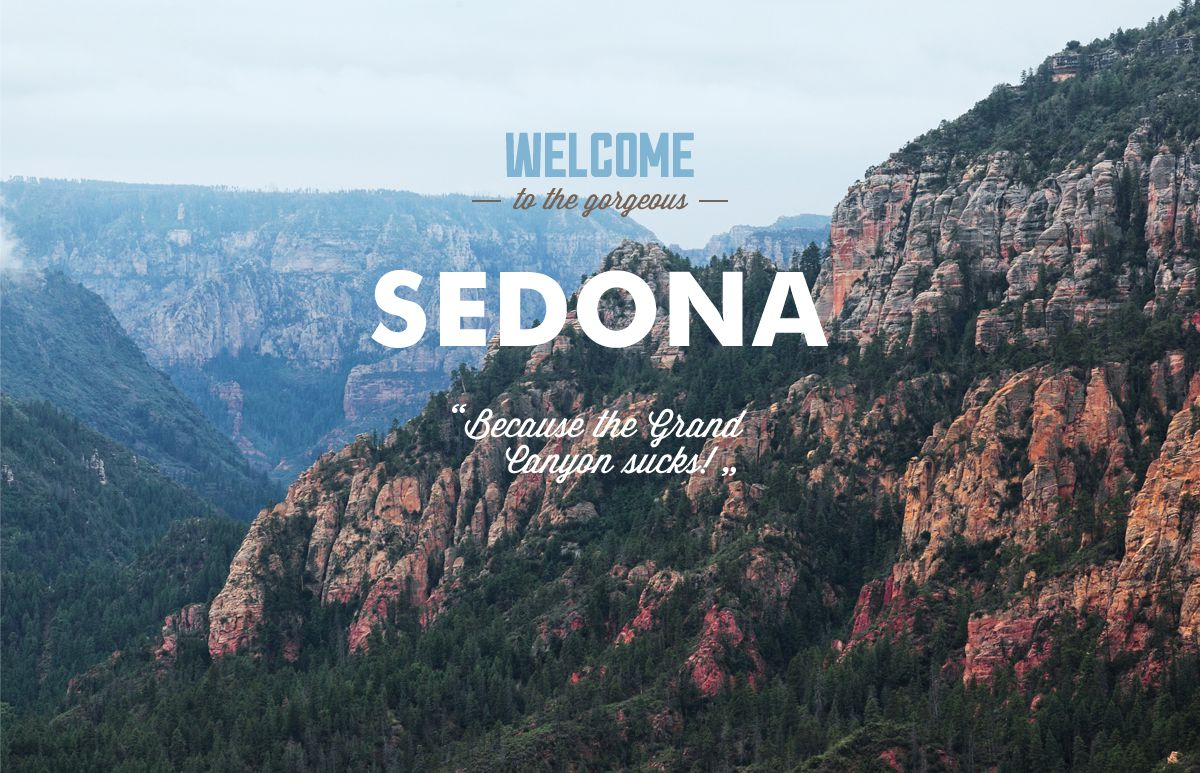
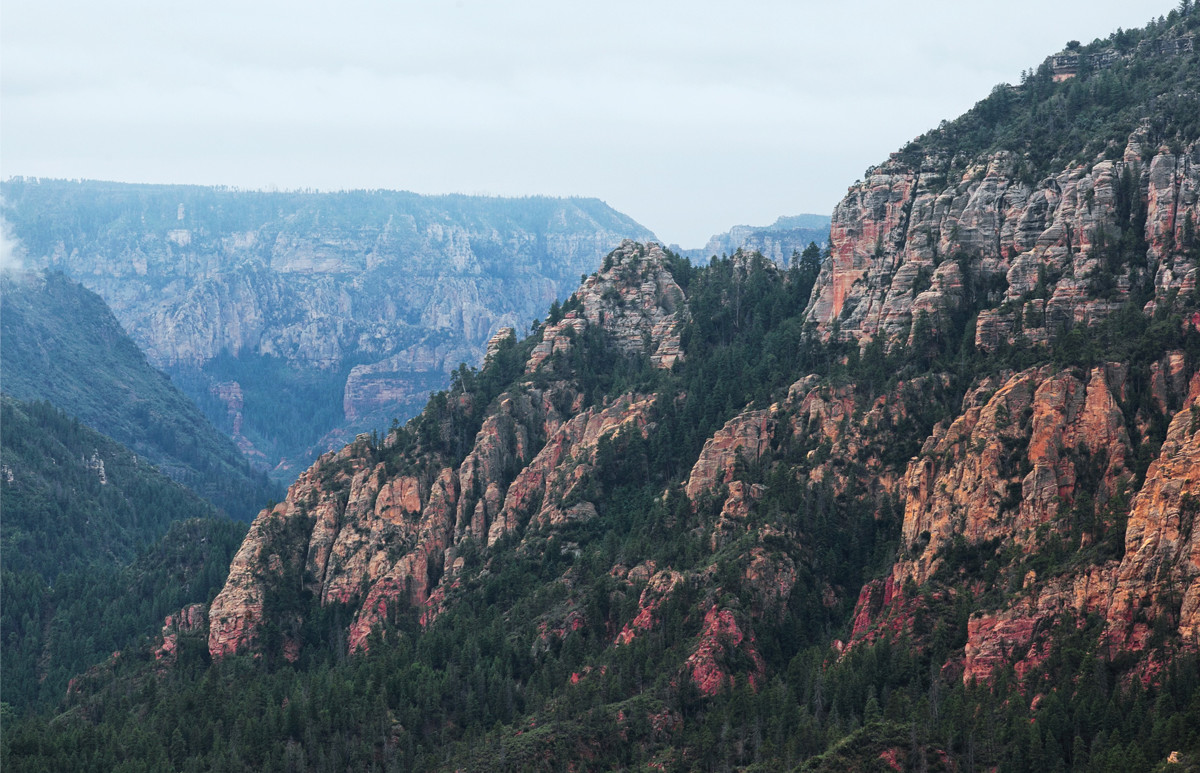
Final changes. Education is over

diff --git a/css/style.min.css b/css/style.min.css
@@ -1,1 +1,1 @@
-h1,h2{font-size:21px}.form-input,.item-info{overflow:hidden}@font-face{font-family:symbols-sedona;src:url(../font/symbols-sedona.eot?60737633);src:url(../font/symbols-sedona.eot?60737633#iefix) format('embedded-opentype'),url(../font/symbols-sedona.woff?60737633) format('woff'),url(../font/symbols-sedona.ttf?60737633) format('truetype'),url(../font/symbols-sedona.svg?60737633#symbols-sedona) format('svg');font-weight:400;font-style:normal}[class*=" icon-"]:before,[class^=icon-]:before{font-family:symbols-sedona;font-style:normal;font-weight:400;speak:none;display:inline-block;text-decoration:inherit;width:1em;margin-right:.2em;text-align:center;font-variant:normal;text-transform:none;line-height:1em;margin-left:.2em}.copyright-logo,.footer-hashtag a,.item-btn,.main-navigation a,.social-btn,.sorting-arrow,.sorting-btn,a.search-form-call{text-decoration:none}.form-call input,body{text-transform:uppercase;font-family:"PT Sans",Arial,sans-serif}.icon-facebook:before{content:'\66'}.icon-twitter:before{content:'\74'}.icon-up-dir:before{content:'\25b2'}.icon-down-dir:before{content:'\25bc'}.icon-star:before{content:'\2605'}.icon-check-off:before{content:'\2610'}.icon-check-on:before{content:'\2611'}.icon-calendar:before{content:'\e800'}.icon-plus:before{content:'\e801'}.icon-minus:before{content:'\e802'}.icon-youtube:before{content:'\f39e'}body{font-size:14px;line-height:21px;color:#000;background-color:#f2f2f2}h1{line-height:24px;font-weight:700}h2{line-height:26px;font-weight:700}.clearfix::after,.clearfix::before{content:'';display:table;clear:both}.pull-right{float:right}.pull-left{float:left}.wrapper{position:relative;min-width:768px;max-width:1200px;margin:0 auto;background-color:#fff;box-shadow:0 5px 15px rgba(0,1,1,.2)}.main-header{padding:20px 6% 15px;position:relative}.main-header ul{padding:0;margin:0;list-style:none}.main-nav-li{width:22.7%;line-height:18px}.main-nav-li.pull-left{text-align:left}.main-nav-li.pull-right{text-align:right}.btn,.features-item,.intro,.search-form{text-align:center}.main-navigation a{color:#000;font-weight:700}.main-navigation a:hover{color:#81b3d2}.main-navigation a:active{color:#b2b2b2}.main-navigation a.active{color:#766357}.main-navigation a.active:hover{color:#604e43}.main-navigation a.active:active{color:#d6d0cc}.top-logo{position:absolute;display:block;top:0;left:50%;margin-left:-69px}.top-logo img{height:70px}.start-img{height:512px;background:url(../img/start-img-bottom-shape.png) 100% bottom no-repeat,url(../img/start-img.jpg) center -56px no-repeat}.intro{padding:60px 0 55px}.intro-title{width:440px;margin:0 auto 30px}.intro p{margin:0 26%}.landscape{min-height:256px;position:relative;color:#fff;background-color:#81b3d2}.landscape-picture{position:absolute;top:0;bottom:0;width:67%;background-repeat:no-repeat;background-size:cover}.landscape-1 .landscape-picture{right:0;background-image:url(../img/landscape1-800x256.jpg)}.landscape-2 .landscape-picture{left:0;background-image:url(../img/landscape2-800x256.jpg)}.landscape-description{width:21%;text-align:center;padding:55px 6% 15px;margin:0}.landscape-title{width:153px;margin:0 auto}.centerred{margin:20px auto}.landscape p{margin:0 auto}.features-item{width:23.3333%;padding:60px 5% 80px}.features-item h2{width:140px;margin:0 auto 20px}.features-item p{margin-bottom:0}.features-1 img{margin-bottom:20px}.features-2{background-color:#eee}.features-2 .features-item{padding-top:40px;padding-bottom:63px}.search-form{padding-top:45px;line-height:24px}.search-title{font-size:30px;line-height:36px;margin-top:0;margin-bottom:25px}.search-form-title{margin-bottom:50px}.search-form-block{background-color:#fff}.btn{color:#fff;display:block}a.search-form-call{height:60px;width:568px;margin:0 auto;background-color:#766357;font-size:21px;line-height:26px;font-weight:700;padding-top:25px}.search-form-body{position:absolute;display:none;left:50%;margin-left:-284px;width:458px;padding:55px;text-align:left;font-weight:700;background-color:#fff;box-shadow:0 7px 15px rgba(0,1,1,.15)}@keyframes fade{0%{opacity:0}70%{opacity:.5}90%{opacity:.7}100%{opacity:1}}.search-form-body.show{display:block;animation:fade .5s}.form-row{margin-bottom:30px}.form-row-half:after,.form-row:after{content:'';display:table;clear:both}.form-description{float:left;width:98px;margin-top:7px;padding-right:15px}.form-input{width:345px;position:relative}.form-input input{box-sizing:border-box;height:38px;width:100%;padding-left:10px;padding-right:35px;border:2px solid #f2f2f2;background-color:#f2f2f2;outline:0;font-weight:700;text-transform:uppercase}.form-row-half{width:50%;float:left}.form-row-half .form-input{width:113px}.form-description-short{width:48px;padding-left:50px}.form-input input:hover{border-color:#ebebeb;background-color:#ebebeb}.form-input input:focus{border-color:#e5e5e5;background-color:#fff}.form-row-half input{width:114px;padding:0 25px;text-align:center}.form-icon{position:absolute;right:9px;top:6px;color:#c2c2c2;cursor:pointer}.form-icon:hover{color:#000}.form-icon:active{color:#81b3d2}.icon-calendar{font-size:21px}.icon-minus{right:auto;left:9px}.form-call{margin-top:55px}.form-call input{width:458px;padding:16px 15px;border:1px solid #fff;font-weight:700;font-size:21px;line-height:24px;outline:0}.blue-btn{color:#fff;background:#81b3d2}.blue-btn:hover{background:#669ec0}.blue-btn:active{color:#88b6d1;background:#5496bd}.map{background:url(../img/map.jpg) center bottom #f2f1ef}.map iframe{height:593px;width:100%}[class*="-footer"]{padding-top:35px;padding-bottom:36px}.main-footer{position:absolute;right:0;left:0;bottom:0;z-index:1;background-color:rgba(255,255,255,.9)}.hotels-footer section,.main-footer section{width:33.33333%;text-align:center}.footer-hashtag{margin:15px 0 0}.footer-hashtag h2{margin:0}.footer-hashtag a{color:#000}.footer-socials{font-size:0}.social-btn{margin:0 3px;display:inline-block;vertical-align:top;width:46px;height:34px;padding-top:14px;font-size:19px;line-height:20px}.footer-copyright{margin-top:5px}.copyright-logo,.copyright-text{display:inline-block;vertical-align:middle;margin-right:5px}.copyright-logo{width:113px;height:39px;font-size:0;background:url(../img/logo-sprite.png) -5px -5px no-repeat}.copyright-logo:hover{background-position:-251px -5px}.copyright-logo:active{background-position:-128px -5px}.hotels-filter{padding:30px 6%;background:url(../img/start-img-blurred.jpg) center center #618ab2;min-height:156px;color:#fff}.hotels-filter h2{margin:0 auto 20px 0}.filter-column-small{width:16%;margin-right:8%}.filter-title{font-size:16px;line-height:21px;font-weight:700}.filter-column-small input[type=checkbox]{display:none}.filter-label{display:block;position:relative;margin-bottom:25px;padding-left:40px;cursor:pointer}.filter-column-small .filter-label:last-child{margin-bottom:0}input[type=checkbox]+.filter-text::before{content:'\2610';font-family:symbols-sedona;display:block;position:absolute;top:0;left:0;cursor:pointer;font-size:26px;line-height:20px;color:#fff}input[type=checkbox]:checked+.filter-text::before{content:'\2611'}.filter-column-right{width:31%;min-width:224px}.filter-column-right h2{margin-bottom:10px}.price-controls{margin-left:10px;padding:4px 0;font-size:0;border:2px solid #fff;border-radius:2px;vertical-align:middle}.price-controls label{display:inline-block;box-sizing:border-box;width:50%;height:22px;font-size:14px;text-align:right}.price-controls label:last-child{border-left:2px solid #fff}.price-controls input{width:50%;background:0 0;border:none;outline:0;text-align:left;text-transform:uppercase}.range-controls{position:relative;padding-top:20px;margin-bottom:30px}.range-controls .scale{height:2px;background:#948482}.range-controls .bar{width:82%;height:2px;background:#fff}.range-controls .toggle{position:absolute;top:10px;left:0;width:4px;height:4px;cursor:pointer;border:8px solid #fff;border-radius:50%;background:#ababab;box-shadow:0 2px 1px rgba(0,1,1,.14)}.range-controls .toggle:hover{background:#1c4f80}.range-controls .toggle-min{left:0}.range-controls .toggle-max{left:82%}.filter-call{width:137px;margin:0 auto}.filter-call input{width:100%;height:32px;padding:0;border:2px solid #fff;border-radius:2px;outline:0;background:0 0;font-size:14px;line-height:21px;text-align:center;text-transform:uppercase}.results-sort{padding:35px 6%;border-bottom:1px solid #e5e5e5}.results-found{font-size:21px;font-weight:700;margin-right:45px}.results-sorting{font-size:12px;overflow:hidden}.sorting-btn{display:inline-block;vertical-align:baseline;margin-left:30px;color:#b2b2b2;border-bottom:1px dotted #81b3d2}.sorting-btn:first-child{margin-left:40px}.sorting-btn:hover{color:#81b3d2}.sorting-btn:active{color:#000;border:none}.sorting-btn.active{color:#81b3d2;border:none}.results-arrows .sorting-arrow{font-size:23px;line-height:20px;font-weight:700;color:#ccc;border:none}.results-arrows .sorting-arrow ::before{margin:0}.results-arrows .sorting-arrow:hover{color:#000;border:none}.icon-star,.results-arrows .sorting-arrow.active{color:#81b3d2}.results-item{padding:30px 6%;border-bottom:1px solid #e5e5e5}.results-item::after,.results-item::before{content:'';clear:both;display:table}.item-img{float:left;margin-right:30px;width:135px;height:90px;background-color:#618ab2}.item-img img{max-width:100%;height:auto}.item-rating{float:right;width:120px}.rating-stars{margin-bottom:45px;font-size:0;text-align:right}.icon-star{font-size:19px;line-height:21px}.rating-number{margin-left:10px;padding:3px 0;text-align:center;background-color:#f2f2f2}.item-info p,.item-title{margin:0 0 10px}.item-btn,.item-price,.item-type{display:inline-block;vertical-align:baseline;box-sizing:border-box}.item-btn{height:25px;color:#fff;padding-top:3px;text-align:center}.item-order{width:142px;background-color:#766357}.item-order:hover{background-color:#604e43}.item-order:active{background-color:#503e33;color:#857871}.btn-width{width:110px;margin-right:6px}
+h1,h2{font-size:21px}.form-input,.item-info{overflow:hidden}@font-face{font-family:symbols-sedona;src:url(../font/symbols-sedona.eot?60737633);src:url(../font/symbols-sedona.eot?60737633#iefix) format('embedded-opentype'),url(../font/symbols-sedona.woff?60737633) format('woff'),url(../font/symbols-sedona.ttf?60737633) format('truetype'),url(../font/symbols-sedona.svg?60737633#symbols-sedona) format('svg');font-weight:400;font-style:normal}[class*=" icon-"]:before,[class^=icon-]:before{font-family:symbols-sedona;font-style:normal;font-weight:400;speak:none;display:inline-block;text-decoration:inherit;width:1em;margin-right:.2em;text-align:center;font-variant:normal;text-transform:none;line-height:1em;margin-left:.2em}.copyright-logo,.footer-hashtag a,.item-btn,.main-navigation a,.social-btn,.sorting-arrow,.sorting-btn,a.search-form-call{text-decoration:none}.form-call input,body{text-transform:uppercase;font-family:"PT Sans",Arial,sans-serif}.icon-facebook:before{content:'\66'}.icon-twitter:before{content:'\74'}.icon-up-dir:before{content:'\25b2'}.icon-down-dir:before{content:'\25bc'}.icon-star:before{content:'\2605'}.icon-check-off:before{content:'\2610'}.icon-check-on:before{content:'\2611'}.icon-calendar:before{content:'\e800'}.icon-plus:before{content:'\e801'}.icon-minus:before{content:'\e802'}.icon-youtube:before{content:'\f39e'}body{font-size:14px;line-height:21px;color:#000;background-color:#f2f2f2}h1{line-height:24px;font-weight:700}h2{line-height:26px;font-weight:700}.clearfix::after,.clearfix::before{content:'';display:table;clear:both}.pull-right{float:right}.pull-left{float:left}.wrapper{position:relative;min-width:768px;max-width:1200px;margin:0 auto;background-color:#fff;box-shadow:0 5px 15px rgba(0,1,1,.2)}.main-header{padding:20px 6% 15px;position:relative}.main-header ul{padding:0;margin:0;list-style:none}.main-nav-li{width:22.7%;line-height:18px}.main-nav-li.pull-left{text-align:left}.main-nav-li.pull-right{text-align:right}.btn,.features-item,.intro,.search-form{text-align:center}.main-navigation a{color:#000;font-weight:700}.main-navigation a:hover{color:#81b3d2}.main-navigation a:active{color:#b2b2b2}.main-navigation a.active{color:#766357}.main-navigation a.active:hover{color:#604e43}.main-navigation a.active:active{color:#d6d0cc}.top-logo{position:absolute;display:block;top:0;left:50%;margin-left:-69px}.top-logo img{height:70px}.start-img{height:512px;background:url(../img/start-img-bottom-shape.png) 100% bottom no-repeat,url(../img/start-img.jpg) center -56px no-repeat #B7D3E8}.start-img-text{display:block;width:458px;height:352px;padding-top:76px;margin:0 auto}.intro{padding:60px 0 55px}.intro-title{width:440px;margin:0 auto 30px}.intro p{margin:0 26%}.landscape{min-height:256px;position:relative;color:#fff;background-color:#81b3d2}.landscape-picture{position:absolute;top:0;bottom:0;width:67%;background-repeat:no-repeat;background-size:cover}.landscape-1 .landscape-picture{right:0;background-image:url(../img/landscape1-800x256.jpg)}.landscape-2 .landscape-picture{left:0;background-image:url(../img/landscape2-800x256.jpg)}.landscape-description{width:21%;text-align:center;padding:55px 6% 15px;margin:0}.landscape-title{width:153px;margin:0 auto}.centerred{margin:20px auto}.landscape p{margin:0 auto}.features-item{width:23.3333%;padding:60px 5% 80px}.features-item h2{width:140px;margin:0 auto 20px}.features-item p{margin-bottom:0}.features-1 img{margin-bottom:20px}.features-2{background-color:#eee}.features-2 .features-item{padding-top:40px;padding-bottom:63px}.search-form{padding-top:45px;line-height:24px}.search-title{font-size:30px;line-height:36px;margin-top:0;margin-bottom:25px}.search-form-title{margin-bottom:50px}.search-form-block{background-color:#fff}.btn{color:#fff;display:block}a.search-form-call{height:60px;width:568px;margin:0 auto;background-color:#766357;font-size:21px;line-height:26px;font-weight:700;padding-top:25px}.search-form-body{position:absolute;display:none;left:50%;margin-left:-284px;width:458px;padding:55px;text-align:left;font-weight:700;background-color:#fff;box-shadow:0 7px 15px rgba(0,1,1,.15)}@keyframes fade{0%{opacity:0}70%{opacity:.5}90%{opacity:.7}100%{opacity:1}}.search-form-body.show{display:block;animation:fade .5s}.form-row{margin-bottom:30px}.form-row-half:after,.form-row:after{content:'';display:table;clear:both}.form-description{float:left;width:98px;margin-top:7px;padding-right:15px}.form-input{width:345px;position:relative}.form-input input{box-sizing:border-box;height:38px;width:100%;padding-left:10px;padding-right:35px;border:2px solid #f2f2f2;background-color:#f2f2f2;outline:0;font-weight:700;text-transform:uppercase}.form-row-half{width:50%;float:left}.form-row-half .form-input{width:113px}.form-description-short{width:48px;padding-left:50px}.form-input input:hover{border-color:#ebebeb;background-color:#ebebeb}.form-input input:focus{border-color:#e5e5e5;background-color:#fff}.form-row-half input{width:114px;padding:0 25px;text-align:center}.form-icon{position:absolute;right:9px;top:6px;color:#c2c2c2;cursor:pointer}.form-icon:hover{color:#000}.form-icon:active{color:#81b3d2}.icon-calendar{font-size:21px}.icon-minus{right:auto;left:9px}.form-call{margin-top:55px}.form-call input{width:458px;padding:16px 15px;border:1px solid #fff;font-weight:700;font-size:21px;line-height:24px;outline:0}.blue-btn{color:#fff;background:#81b3d2}.blue-btn:hover{background:#669ec0}.blue-btn:active{color:#88b6d1;background:#5496bd}.map{background:url(../img/map.jpg) center bottom #f2f1ef}.map iframe{height:593px;width:100%;border:none}.footer-hashtag,.footer-socials{text-align:center;width:33.33333%}[class*="-footer"]{padding-top:35px;padding-bottom:36px}.main-footer{position:absolute;right:0;left:0;bottom:0;z-index:1;background-color:rgba(255,255,255,.9)}.footer-hashtag{margin:15px 0 0}.footer-hashtag h2{margin:0}.footer-hashtag a{color:#000}.footer-socials{font-size:0}.social-btn{margin:0 3px;display:inline-block;vertical-align:top;width:46px;height:34px;padding-top:14px;font-size:19px;line-height:20px}.footer-copyright{margin-top:5px;width:33.33333%;text-align:center}.copyright-logo,.copyright-text{display:inline-block;vertical-align:middle;margin-right:5px}.copyright-logo{width:113px;height:39px;font-size:0;background:url(../img/logo-sprite.png) -5px -5px no-repeat}.copyright-logo:hover{background-position:-251px -5px}.copyright-logo:active{background-position:-128px -5px}.hotels-filter{padding:30px 6%;background:url(../img/start-img-blurred.jpg) center center #618ab2;min-height:156px;color:#fff}.hotels-filter h2{margin:0 auto 20px 0}.filter-column-small{width:16%;margin-right:8%}.filter-title{font-size:16px;line-height:21px;font-weight:700}.filter-column-small input[type=checkbox]{display:none}.filter-label{display:block;position:relative;margin-bottom:25px;padding-left:40px;cursor:pointer}.filter-column-small .filter-label:last-child{margin-bottom:0}input[type=checkbox]+.filter-text::before{content:'\2610';font-family:symbols-sedona;display:block;position:absolute;top:0;left:0;cursor:pointer;font-size:26px;line-height:20px;color:#b5b5b5}input[type=checkbox]:checked+.filter-text::before{content:'\2611'}.filter-label:hover .filter-text::before{color:#fff}input[type=checkbox]:disabled+.filter-text::before{color:#6a6a6a}.filter-column-right{width:31%;min-width:224px}.filter-column-right h2{margin-bottom:10px}.price-controls{margin-left:10px;padding:4px 0;font-size:0;border:2px solid #fff;border-radius:2px;vertical-align:middle}.price-controls label{display:inline-block;box-sizing:border-box;width:50%;height:22px;font-size:14px;text-align:right}.price-controls label:last-child{border-left:2px solid #fff}.price-controls input{width:50%;background:0 0;border:none;outline:0;text-align:left;text-transform:uppercase}.range-controls{position:relative;padding-top:20px;margin-bottom:30px}.range-controls .scale{height:2px;background:#948482}.range-controls .bar{width:82%;height:2px;background:#fff}.range-controls .toggle{position:absolute;top:10px;left:0;width:4px;height:4px;cursor:pointer;border:8px solid #fff;border-radius:50%;background:#ababab;box-shadow:0 2px 1px rgba(0,1,1,.14)}.range-controls .toggle:hover{background:#1c4f80}.range-controls .toggle-min{left:0}.range-controls .toggle-max{left:82%}.filter-call{width:137px;margin:0 auto}.filter-call input{width:100%;height:32px;padding:0;border:2px solid #fff;border-radius:2px;outline:0;background:0 0;font-size:14px;line-height:21px;text-align:center;text-transform:uppercase}.results-sort{padding:35px 6%;border-bottom:1px solid #e5e5e5}.results-found{font-size:21px;font-weight:700;margin-right:45px}.results-sorting{font-size:12px;overflow:hidden}.sorting-btn{display:inline-block;vertical-align:baseline;margin-left:30px;color:#b2b2b2;border-bottom:1px dotted #81b3d2}.sorting-btn:first-child{margin-left:40px}.sorting-btn:hover{color:#81b3d2}.sorting-btn:active{color:#000;border:none}.sorting-btn.active{color:#81b3d2;border:none}.results-arrows .sorting-arrow{font-size:23px;line-height:20px;font-weight:700;color:#ccc;border:none}.results-arrows .sorting-arrow ::before{margin:0}.results-arrows .sorting-arrow:hover{color:#000;border:none}.icon-star,.results-arrows .sorting-arrow.active{color:#81b3d2}.results-item{padding:30px 6%;border-bottom:1px solid #e5e5e5}.results-item::after,.results-item::before{content:'';clear:both;display:table}.item-img{float:left;margin-right:30px;width:135px;height:90px;background-color:#618ab2}.item-img img{max-width:100%;height:auto}.item-rating{float:right;width:120px}.rating-stars{margin-bottom:45px;font-size:0;text-align:right}.icon-star{font-size:19px;line-height:21px}.rating-number{margin-left:10px;padding:3px 0;text-align:center;background-color:#f2f2f2}.item-info p,.item-title{margin:0 0 10px}.item-btn,.item-price,.item-type{display:inline-block;vertical-align:baseline;box-sizing:border-box}.item-btn{height:25px;color:#fff;padding-top:3px;text-align:center}.item-order{width:142px;background-color:#766357}.item-order:hover{background-color:#604e43}.item-order:active{background-color:#503e33;color:#857871}.btn-width{width:110px;margin-right:6px}

diff --git a/hotels.html b/hotels.html
@@ -6,12 +6,13 @@
     <link href='https://fonts.googleapis.com/css?family=PT+Sans:400,700&amp;subset=latin,cyrillic' rel='stylesheet' type='text/css'>
     <link rel="stylesheet" href="css/normalize.css" type="text/css">
     <link href="css/style.min.css" type="text/css" rel="stylesheet">
-    <title>Отели Седоны</title>
+    <meta name="description" content="Вёрстка второй страницы макета Sedona">
+    <title>Вёрстка 2 страницы макета Sedona</title>
 </head>
 
 <body>
     <div class="wrapper">
-        <header class="main-header">
+        <header class="main-header"><div></div>
             <nav class="main-navigation">
                 <ul class="clearfix">
                     <li class="main-nav-li pull-left"><a href="#">Информация</a></li>
@@ -40,7 +41,7 @@
                             <span class="filter-text">Парковка</span>
                         </label>
                         <label class="filter-label">
-                            <input type="checkbox" name="infrastructure[]" value="wifi">
+                            <input type="checkbox" name="infrastructure[]" value="wifi" checked disabled>
                             <span class="filter-text">Wi-Fi</span>
                         </label>
                     </div>
@@ -200,29 +201,23 @@
             </article>
         </main>
 
-       <footer class="hotels-footer">
-          <div class="container clearfix">
-              <section class="footer-hashtag pull-left">
-                  <h2><a href="#" title="Hashtag">#visitsedona</a></h2>
-              </section>
-              <section class="footer-socials  pull-left">
-                   <a href="#" class="social-btn blue-btn"><span class="icon-twitter"></span></a>
-
-
-
-
-
-                                                                                                                          
-                  <a href="#" class="social-btn blue-btn"><span class="icon-facebook"></span></a>
-                  <a href="#" class="social-btn blue-btn"><span class="icon-youtube"></span></a>
-              </section>
-              <section class="footer-copyright  pull-left">
-                  <span class="copyright-text">website by</span>
-                  <a href="https://htmlacademy.ru" class="copyright-logo">
-                      
-                  </a>
-              </section>
-          </div>
+        <footer class="hotels-footer">
+            <div class="container clearfix">
+                <section class="footer-hashtag pull-left">
+                    <h2><a href="#" title="Hashtag">#visitsedona</a></h2>
+                </section>
+                <div class="footer-socials  pull-left">
+                     <a href="#" class="social-btn blue-btn"><span class="icon-twitter"></span></a>
+                    <a href="#" class="social-btn blue-btn"><span class="icon-facebook"></span></a>
+                    <a href="#" class="social-btn blue-btn"><span class="icon-youtube"></span></a>
+                </div>
+                <div class="footer-copyright  pull-left">
+                    <span class="copyright-text">design by</span>
+                    <a href="https://htmlacademy.ru" class="copyright-logo">HTML ACADEMY
+                        
+                    </a>
+                </div>
+            </div>
         </footer>
     </div>
 </body>

diff --git a/index.html b/index.html
@@ -6,7 +6,8 @@
     <link href='https://fonts.googleapis.com/css?family=PT+Sans:400,700&amp;subset=latin,cyrillic' rel='stylesheet' type='text/css'>
     <link rel="stylesheet" href="css/normalize.css" type="text/css">
     <link href="css/style.min.css" type="text/css" rel="stylesheet">
-    <title>Sedona</title>
+    <title>Вёрстка макета Sedona</title>
+    <meta name="description" content="Вёрстка макета Sedona">
 </head>
 
 <body>
@@ -26,7 +27,9 @@
             </nav>
         </header>
     
-        <div class="start-img"></div>
+        <div class="start-img">
+            <img src="img/start-img-text.png" class="start-img-text" alt="Welcome to Sedona" width="458" height="352" >
+        </div>
 
           
         <main class="mainpage-content">
@@ -146,27 +149,26 @@
                     </div>
                 </div>
             </section>
-            <section class="map">
-                <iframe src="https://www.google.com/maps/embed?pb=!1m18!1m12!1m3!1d837541.1848076531!2d-111.79187688383797!3d34.91535100356996!2m3!1f0!2f0!3f0!3m2!1i1024!2i768!4f13.1!3m3!1m2!1s0x872da132f942b00d%3A0x5548c523fa6c8efd!2z0KHQtdC00L7QvdCwLCDQkNGA0LjQt9C-0L3QsCwg0KHQqNCQ!5e0!3m2!1sru!2sua!4v1442335082807"  height="593" frameborder="0" style="border:0" allowfullscreen></iframe>
-            </section>
+            <div class="map">
+                <iframe src="https://www.google.com/maps/embed?pb=!1m18!1m12!1m3!1d837541.1848076531!2d-111.79187688383797!3d34.91535100356996!2m3!1f0!2f0!3f0!3m2!1i1024!2i768!4f13.1!3m3!1m2!1s0x872da132f942b00d%3A0x5548c523fa6c8efd!2z0KHQtdC00L7QvdCwLCDQkNGA0LjQt9C-0L3QsCwg0KHQqNCQ!5e0!3m2!1sru!2sua!4v1442335082807"></iframe>
+            </div>
         </main>
         <footer class="main-footer">
             <div class="container clearfix">
                 <section class="footer-hashtag pull-left">
-                    <!-- h2! -->
                     <h2><a href="#" title="Hashtag">#visitsedona</a></h2>
                 </section>
-                <section class="footer-socials  pull-left">
+                <div class="footer-socials  pull-left">
                      <a href="#" class="social-btn blue-btn"><span class="icon-twitter"></span></a>
                     <a href="#" class="social-btn blue-btn"><span class="icon-facebook"></span></a>
                     <a href="#" class="social-btn blue-btn"><span class="icon-youtube"></span></a>
-                </section>
-                <section class="footer-copyright  pull-left">
-                    <span class="copyright-text">website by</span>
+                </div>
+                <div class="footer-copyright  pull-left">
+                    <span class="copyright-text">design by</span>
                     <a href="https://htmlacademy.ru" class="copyright-logo">HTML ACADEMY
                         
                     </a>
-                </section>
+                </div>
             </div>
         </footer>
     </div>

diff --git a/css/style.css b/css/style.css
@@ -178,6 +178,15 @@ h2 {
   height: 512px;
   background: url('../img/start-img-bottom-shape.png') no-repeat 100% bottom,
               url('../img/start-img.jpg') no-repeat center -56px;
+  background-color: #B7D3E8;
+}
+
+.start-img-text {
+  display: block;
+  width: 458px;
+  height: 352px;
+  padding-top: 76px;
+  margin: 0 auto;
 }
 
 .intro {
@@ -470,9 +479,11 @@ a.search-form-call {
  
   background: #f2f1ef url("../img/map.jpg") center bottom;
 }
+
 .map iframe {
   height: 593px;
   width: 100%;
+  border: none;
 }
 /*------------FOOTER--------------------*/
 
@@ -494,14 +505,11 @@ a.search-form-call {
 
 
 
-.main-footer section,
-.hotels-footer section {
-  width: 33.33333%;
-  text-align: center;
-}
 
 .footer-hashtag {
   margin: 15px 0px 0px 0px;
+  width: 33.33333%;
+  text-align: center;
 }
 
 .footer-hashtag h2{
@@ -515,6 +523,8 @@ a.search-form-call {
 
 .footer-socials {
   font-size: 0;
+  width: 33.33333%;
+  text-align: center;
 }
 .social-btn {
   margin: 0 3px 0 3px;
@@ -530,6 +540,8 @@ a.search-form-call {
 
 .footer-copyright {
   margin-top: 5px;
+  width: 33.33333%;
+  text-align: center;
 }
 
 .copyright-text,
@@ -596,7 +608,6 @@ a.search-form-call {
   cursor: pointer;
 }
 
-
 .filter-column-small .filter-label:last-child {
   margin-bottom: 0;
 }
@@ -611,11 +622,19 @@ input[type="checkbox"] + .filter-text::before {
   cursor: pointer;
   font-size: 26px;
   line-height: 20px;
-  color: #fff;
+  color: #b5b5b5;
 }
 
 input[type="checkbox"]:checked + .filter-text::before {
   content: '\2611';
+}
+
+.filter-label:hover .filter-text::before {
+  color:#ffffff;
+}
+
+input[type="checkbox"]:disabled + .filter-text::before {
+  color: #6a6a6a;
 }
 
 /*=================RANGE-FILTER=======================*/

diff --git a/README.MD b/README.MD
@@ -19,3 +19,5 @@ I'm studying at <a href="https://htmlacademy.ru">HTML Academy</a>
 15.08 Added js scrip for improve usabillity. Added interactive google map.
 
 19.08 Corrected font sizies and positions of element s on page by Pixel Perfect.
+
+27.08 Project was checked and after correction, this is final version. Score 100%))
